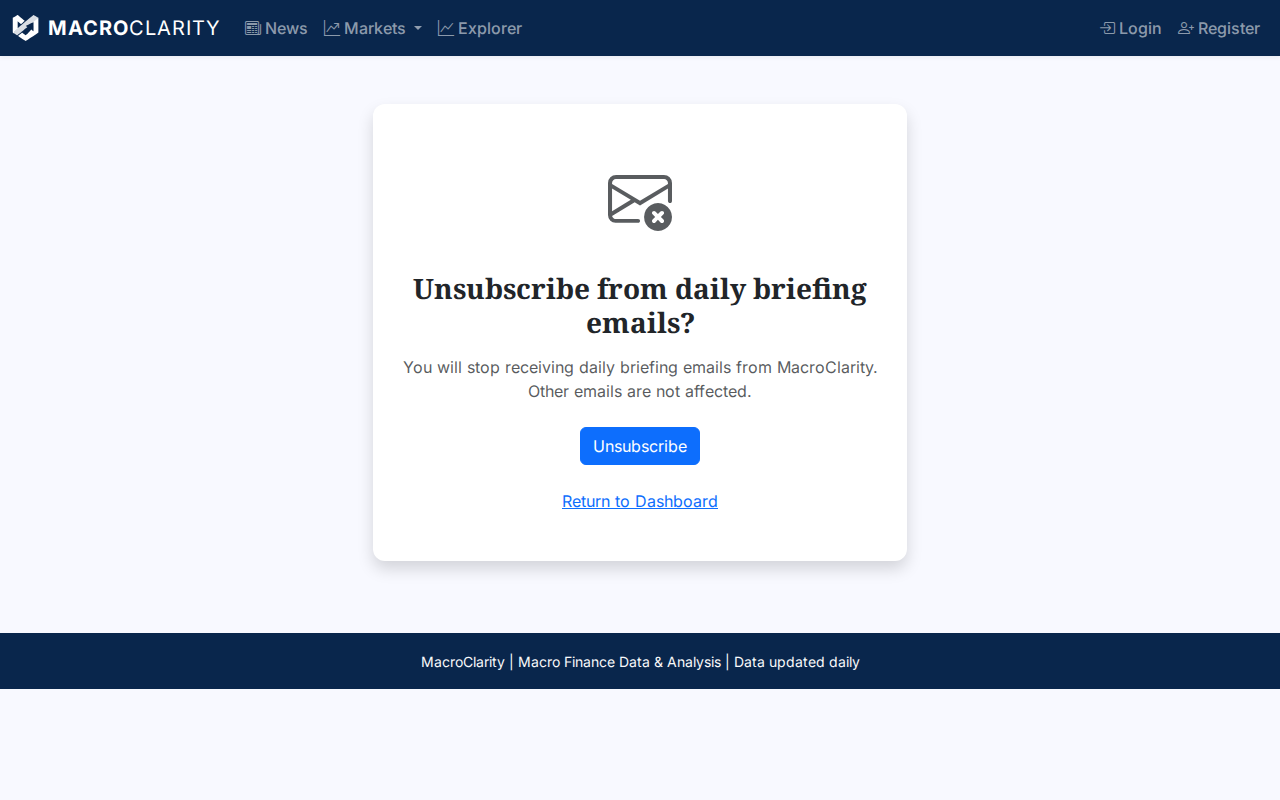
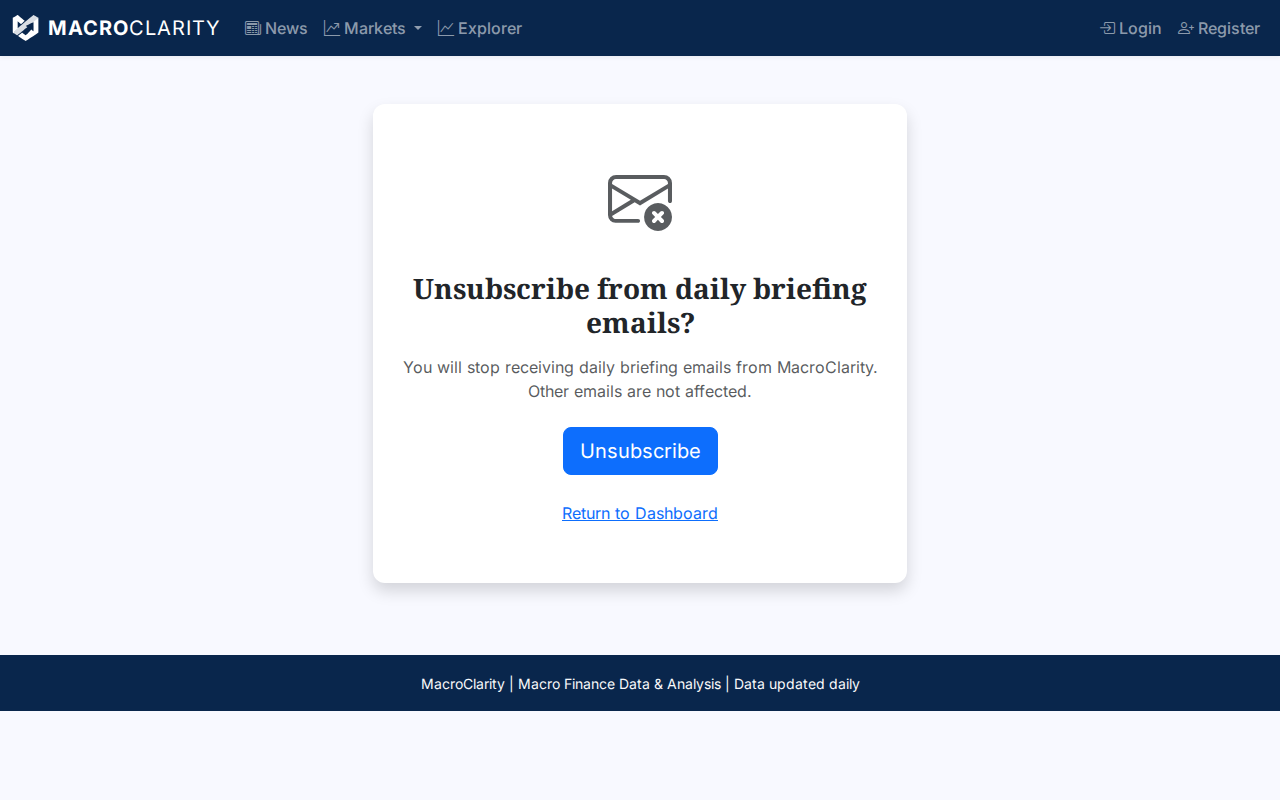
Fix design issues per review feedback
- Unsubscribe button uses btn-lg (48px tall, was 38px)
- Return to Dashboard link gets a 44px tap area (inline-flex,
  min-height 44px) and still looks like a text link
- Success page Return to Dashboard button also uses btn-lg (optional
  item, keeps the two pages consistent)
- Refreshed confirm/success screenshots at 1280 and 375

Addresses design review on #496

diff --git a/signaltrackers/templates/unsubscribe_confirm.html b/signaltrackers/templates/unsubscribe_confirm.html
@@ -16,12 +16,12 @@
                         You will stop receiving {{ email_type }} emails from MacroClarity. Other emails are not affected.
                     </p>
                     <form method="post">
-                        <button type="submit" class="btn btn-primary">
+                        <button type="submit" class="btn btn-primary btn-lg">
                             Unsubscribe
                         </button>
                     </form>
-                    <div class="mt-4">
-                        <a href="/">Return to Dashboard</a>
+                    <div class="mt-3">
+                        <a href="/" class="d-inline-flex align-items-center px-2" style="min-height: 44px;">Return to Dashboard</a>
                     </div>
                 </div>
             </div>

diff --git a/signaltrackers/templates/unsubscribe_success.html b/signaltrackers/templates/unsubscribe_success.html
@@ -23,7 +23,7 @@
                         </p>
                     </div>
                     <div class="mt-4">
-                        <a href="/" class="btn btn-primary">
+                        <a href="/" class="btn btn-primary btn-lg">
                             <i class="bi bi-house-door me-2"></i>Return to Dashboard
                         </a>
                     </div>
